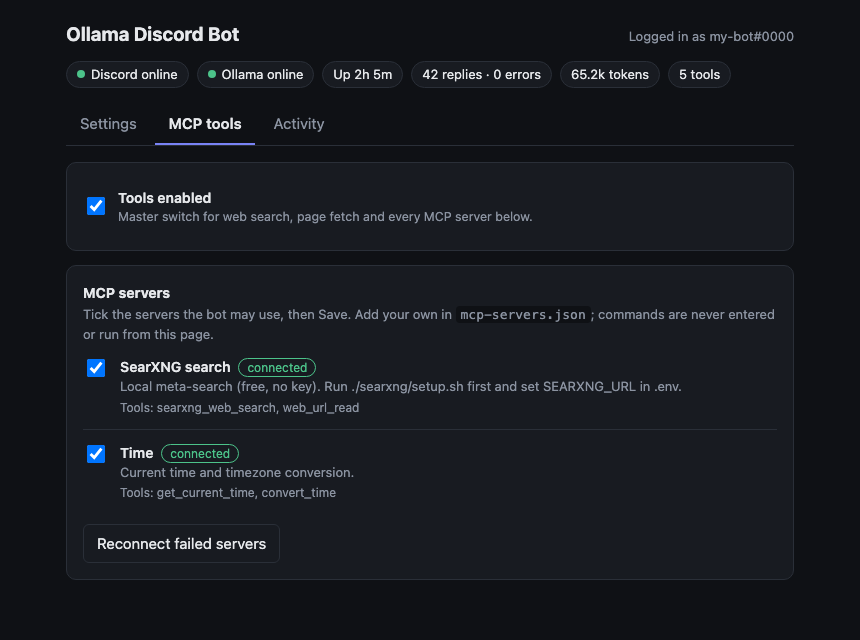
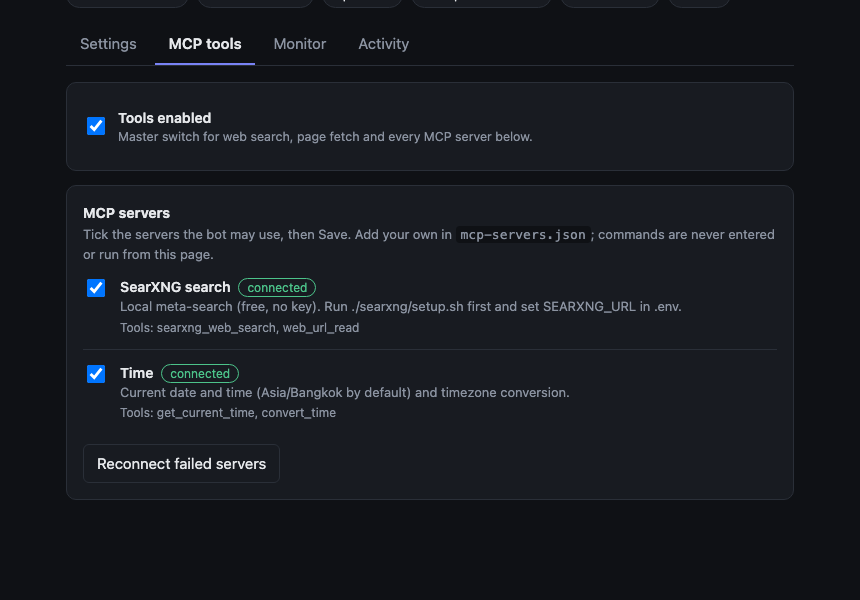
README: rewrite for the current bot, refresh screenshots
- features, requirements, usage with --commands, per-user conversations, today's date stamping
- choosing a model (tool support, thinking, measured speeds), MCP servers and the Time server
- dashboard tabs (Settings, MCP tools, Monitor, Activity) with new demo-data screenshots, logs, running, full env variable table, troubleshooting, project layout
- fix: default model and the pulled model now agree

diff --git a/README.md b/README.md
@@ -1,12 +1,25 @@
 # ollama-discord
 
-Discord bot that answers with a local Ollama model (`qwen2.5:7b`).
+A Discord bot that answers with a **local** Ollama model: no cloud API, no subscription, your messages stay on your machine. It can search the web and use other tools through MCP, and comes with a web dashboard to change its settings live and see how it is performing.
+
+- Per-user conversations, so two people talking to the bot in one channel never mix
+- Web search through a local SearXNG (free, no API key), plus any MCP server you add (date/time, ...)
+- Dashboard: change model, prompt and limits without restarting; choose MCP servers; monitor speed, memory and errors; browse logs
+- Chat commands: `--help`, `--info`, `--reset`
+- Two log files on disk (bot log and chat log) for investigating problems
+
+## Requirements
+- [Ollama](https://ollama.com) (a recent version; newer models need newer Ollama) and Node.js 20.6 or newer
+- A Discord bot token
+- Docker, only for the local web search (SearXNG)
+- Python 3, only for the optional Time MCP server
 
 ## Setup
-1. Install Ollama (https://ollama.com) and pull the model:
+1. Install Ollama and pull a model:
    ```
-   ollama pull qwen2.5:3b
+   ollama pull qwen2.5:7b
    ```
+   The default model is `qwen2.5:7b`. See [Choosing a model](#choosing-a-model) for others.
 2. Create a bot at https://discord.com/developers/applications, enable **Message Content Intent** (Bot tab), copy the token, and invite it with the `bot` scope and Send Messages / Read Message History permissions.
 3. Configure and run:
    ```
@@ -14,21 +27,44 @@ Discord bot that answers with a local Ollama model (`qwen2.5:7b`).
    cp .env.example .env   # set DISCORD_TOKEN
    npm start
    ```
+   or run it in the background with `./bot.sh start` (see [Running](#running-the-bot)).
+4. Optional: set up [web search](#web-search-and-other-tools-mcp) and open the [dashboard](#web-dashboard).
 
-## Usage
-- @mention the bot in a server channel, or DM it.
-- Commands (type after the @mention, or in a DM). Replies come in a code block, and `--help` always lists the current commands:
-  - `--help` lists all commands
-  - `--info` shows the model, tools, your conversation size, uptime and average reply time
-  - `--reset` clears your own conversation history
-- Each person gets their own conversation, even in a shared channel, so two people chatting at once don't mix. `--reset` clears your own history. To share one conversation per channel instead, set `HISTORY_SCOPE=channel` in `.env` or change "History kept" in the dashboard.
+## Using the bot
+@mention the bot in a server channel, or DM it. The bot answers in the same channel.
 
-Config via `.env`: `OLLAMA_HOST`, `OLLAMA_MODEL`, `SYSTEM_PROMPT`, `HISTORY_LIMIT`.
+**Commands.** Type them after the @mention (or in a DM). Replies come in a code block, commands are not case sensitive, and they work while the bot is paused. `--help` always lists the current commands.
 
-## Web search (MCP)
-The bot connects to an MCP search server and lets the model call it when it needs current info; it then reads the top result and answers with a short summary and a source link.
+| Command | What it does |
+| --- | --- |
+| `--help` | lists all commands |
+| `--info` | shows the model, tools, your conversation size, uptime and average reply time |
+| `--reset` | clears your own conversation history |
 
-**Recommended: local SearXNG (free, no API key, needs Docker)**
+An unknown `--something` gets a hint instead of being sent to the model.
+
+**Conversations.** Each person has their own conversation, even in a shared channel. To share one conversation per channel instead, set `HISTORY_SCOPE=channel` in `.env` or change "History kept" in the dashboard. The bot remembers the last `HISTORY_LIMIT` messages (default 10). Replies that used a tool start with `(search)`; you can turn that tag off in the dashboard.
+
+**Current date.** Models guess the year from their training data (a bot asked about "the next F1 race" will happily search for 2024 in 2026). So the bot puts today's date next to each question it sends to the model, for example `[Today is Monday, October 19, 2026] what the next f1 race`. It is added only to the copy sent to the model, never stored in the history. Turn it off with "Tell the model today's date" in the dashboard or `INJECT_DATE=false`.
+
+## Choosing a model
+Any Ollama model works. For web search and other tools the model must support **tool calling**: `qwen3`, `qwen3.5`, `qwen2.5` and `llama3.1` do. A model without it, such as `gemma3`, still chats, but the bot skips search and tools for it (the dashboard says so).
+
+**Thinking models** (`qwen3`, `qwen3.5`, `deepseek-r1`) reason before answering, which makes replies slow and token-hungry. The bot turns thinking off by default; the dashboard's **Thinking mode** checkbox (or `OLLAMA_THINKING=true`) turns it on.
+
+Speed on a MacBook with an M1 and 16 GB, measured with this bot (your hardware will differ):
+
+| Model | Reading prompts | Writing answers | Memory |
+| --- | --- | --- | --- |
+| `qwen3.5:9b` | ~75 tokens/s | ~7 tokens/s | 8 GB, grows to ~13 GB over a long run |
+| `qwen3.5:4b` | ~145 tokens/s | ~15 tokens/s | 4.7 GB |
+
+Reading the prompt is usually the slow part: every tool definition is sent with every request, so the more tools are enabled, the longer each reply takes. See [Troubleshooting](#troubleshooting).
+
+## Web search and other tools (MCP)
+The bot can call tools through [MCP](https://modelcontextprotocol.io) servers. For a search tool it lets the model search, reads the top result, and answers with a short summary and a source link. Every other tool of a selected server is offered to the model as it is.
+
+**Web search with local SearXNG (free, no API key, needs Docker)**
 ```
 ./searxng/setup.sh        # first-time setup; later ./bot.sh start/stop handles it (http://127.0.0.1:8888, local only)
 ```
@@ -36,51 +72,122 @@ Then put this in `.env` and run `./bot.sh restart`:
 ```
 SEARXNG_URL=http://127.0.0.1:8888
 ```
-`./bot.sh start` starts SearXNG automatically (opening Docker Desktop if needed) and `./bot.sh stop` stops it again, as long as `SEARXNG_URL` is set in `.env`. SearXNG combines several engines; if some are blocked at your IP it uses the others.
+`./bot.sh start` starts SearXNG automatically (opening Docker Desktop if needed) and `./bot.sh stop` stops it again, as long as `SEARXNG_URL` is set in `.env`. SearXNG combines several engines; if some are blocked at your IP it uses the others. Set `MCP_ENABLED=false` to disable search and all other tools.
 
-Set `MCP_ENABLED=false` to disable search and other tools.
-
-## Web dashboard
-Open http://127.0.0.1:8787 while the bot is running to change the model (from your installed Ollama models), system prompt, history length, context size, temperature, max tool rounds, which **MCP servers** the bot uses, tools on/off, advanced model options (top-p, max reply tokens, keep-alive), which channels the bot answers in, a per-user cooldown, the bot's Discord status text, pause the bot, clear history, and see recent activity, including which tools each reply used (name, what it was called with, how long it took, and whether it failed). Changes apply immediately and are saved to `config.json` (which overrides `.env`; delete it to go back to `.env` values).
-
-![Settings tab: model, system prompt, limits and controls](docs/screenshots/settings.png)
-
-| MCP tools | Activity and token usage |
-| --- | --- |
-| ![MCP tools tab: choose which MCP servers the bot uses](docs/screenshots/tools.png) | ![Activity tab: recent messages with tokens in and out](docs/screenshots/activity.png) |
-
-*Screenshots use demo data.*
-
-### Monitor tab
-Shows how the bot is performing: health warnings (swap nearly full, model partly on CPU, slow replies, prompts filling the context, repeated tool loops), averages (reply time, tokens/s for reading and writing, model calls per reply), a chart of where each reply's time went (model load, reading the prompt, writing the answer, tools), how much memory Ollama's model uses, and swap/CPU load on the Mac. Reply data is kept in memory for the last 50 replies and resets on restart.
-
-### Logs
-The bot keeps two logs on disk in `logs/` (git-ignored), so you can investigate problems after the fact:
-- `logs/bot.jsonl`: everything the bot prints (startup, tool calls, warnings, errors, crashes), one JSON object per line.
-- `logs/chat.jsonl`: each question and answer with user, timing, tokens, tools used and any error. Turn this off with "Save chat log to disk" in Settings if you don't want conversations stored.
-
-Each file rotates at 2 MB and keeps two older copies (`.1`, `.2`), so disk use stays small. The Monitor tab's **Logs** card shows both, with filters (all / warnings and errors / errors only), text search, click-to-expand rows and a Clear button, and the Health box warns when the bot log has errors from the last hour. The Discord token is scrubbed if it ever appears. `bot.log` (raw console output from `./bot.sh`) is still written as before.
-
-### Choosing the bot's MCP servers
-The "MCP servers" list shows every server the bot knows about with a live status (off / connecting / connected / error) and the tools each one provides. Tick the ones you want and press Save; servers are started or stopped right away, and **Reconnect failed servers** retries any that errored. Several servers can run at once. If two expose a tool with the same name, the later one is prefixed with its id (e.g. `fake__get_time`).
-
-The list comes from three places (later wins on the same id):
+**Choosing the servers.** The dashboard's MCP tools tab lists every server the bot knows with a live status (off / connecting / connected / error) and its tools. Tick the ones you want and press Save: servers start and stop right away, and **Reconnect failed servers** retries any that errored. If two servers expose a tool with the same name, the later one is prefixed with its id (e.g. `time__get_current_time`). The list comes from three places (later wins on the same id):
 1. built in: `searxng` (needs `SEARXNG_URL` in `.env`; the dashboard shows what is missing)
-2. `env` (optional, older way): one server described by `MCP_COMMAND` / `MCP_ARGS` / `MCP_ENV_KEYS` in `.env`. Only appears if `MCP_COMMAND` is set; don't set it for SearXNG, as that would duplicate the built-in `searxng` entry and double every search tool in the prompt. If set, it is selected by default, otherwise `searxng` is
+2. `env` (optional, older way): one server described by `MCP_COMMAND` / `MCP_ARGS` / `MCP_ENV_KEYS` in `.env`. Only appears if `MCP_COMMAND` is set. Don't set it for SearXNG: that would duplicate the built-in `searxng` entry and double every search tool in the prompt. If set, it is selected by default, otherwise `searxng` is
 3. your own `mcp-servers.json` (copy `mcp-servers.example.json`; re-read when the file changes, no restart needed):
    ```json
    { "servers": [ { "id": "time", "label": "Time", "description": "...", "command": ".venv/bin/mcp-server-time", "args": ["--local-timezone=Asia/Bangkok"], "envKeys": [] } ] }
    ```
    `envKeys` lists the `.env` variables forwarded to that server; nothing else from `.env` (such as the Discord token) is passed on.
 
-**Time server (current date, time and timezones).** The official `mcp-server-time` is a Python package, so it lives in its own virtual environment inside the project (git-ignored, along with your `mcp-servers.json`):
+**Time server (clock time and timezones).** The official `mcp-server-time` is a Python package, so it lives in its own virtual environment inside the project (git-ignored, along with your `mcp-servers.json`):
 ```
 python3 -m venv .venv && .venv/bin/pip install mcp-server-time
 cp mcp-servers.example.json mcp-servers.json   # adjust --local-timezone if you are not in Asia/Bangkok
 ```
-Then tick **Time** in the dashboard's MCP tools tab and Save. It provides `get_current_time` and `convert_time`, so date questions are answered instantly instead of by web search. Tell the bot to use it in the system prompt, for example: "For the current date or time, or timezone questions, use the time tool (default timezone Asia/Bangkok). Use web search only for other current events."
+Then tick **Time** in the MCP tools tab and Save. It provides `get_current_time` and `convert_time`, so questions like "what time is it in Tokyo?" are answered instantly instead of by web search. To make the bot use it, say so in the system prompt, for example: "For the current time or timezone questions, use the time tool (default timezone Asia/Bangkok). Use web search only for other current events."
 
-Search-style tools (name contains `web-search` / `web_search`) get the summarise-and-cite flow; every other tool is offered to the model as is.
+## Web dashboard
+Open http://127.0.0.1:8787 while the bot is running. Changes apply immediately and are saved to `config.json`, which overrides `.env` (delete it to go back to the `.env` values). A bar with **Save changes** and **Discard** appears when you have unsaved edits.
 
+### Settings
+<img src="docs/screenshots/settings.png" alt="Settings tab" width="640">
+
+- **Model:** which installed Ollama model answers, temperature, thinking mode, top-p, max reply tokens, and how long Ollama keeps the model in memory
+- **System prompt:** the instructions the bot follows, and the "Tell the model today's date" switch
+- **Access & behavior:** which channels the bot answers in (empty = all; DMs always work), a cooldown between a user's questions, the bot's Discord status text, whether to save the chat log, and whether to show the `(search)` tag
+- **Limits:** history scope and length, context size, how many tool rounds a reply may use
+- **Control:** pause the bot (it replies that it is paused), or clear all conversation history
+
+### MCP tools
+<img src="docs/screenshots/tools.png" alt="MCP tools tab" width="640">
+
+The master switch for tools and the server list described [above](#web-search-and-other-tools-mcp).
+
+### Monitor
+<img src="docs/screenshots/monitor.png" alt="Monitor tab" width="640">
+
+How the bot is performing, built from the last 50 replies (kept in memory, reset on restart):
+- **Health:** warnings for a nearly full swap, a model partly running on the CPU, slow replies, prompts filling the context window, repeated tool loops, and errors in the bot log in the last hour
+- **Reply performance:** average and slowest reply, tokens per second for reading and writing, prompt size, model calls per reply
+- **Where the time goes:** a bar per reply split into model load, reading the prompt, writing the answer and tools; hover a bar for the numbers
+- **Ollama and this Mac:** model memory, how much of it is on the GPU, context size, when it unloads, swap and CPU load
+- **Latest replies** and the **Logs** card ([below](#logs))
+
+### Activity
+<img src="docs/screenshots/activity.png" alt="Activity tab" width="640">
+
+Recent messages with tokens in and out (Ollama's own counts: *in* is prompt, history and tool results; *out* is generated text), how long each took, and **which tools each reply used**: name, what it was called with (the search query or URL), how long it took, and whether it failed. Tool calls made before an error are kept.
+
+*Screenshots use demo data.*
+
+### Dashboard security
 - Local only by default. To reach it from another machine set `WEB_HOST` and a `WEB_PASSWORD` (the dashboard refuses to start on a non-local address without one). Use HTTPS or a VPN in front of it, since Basic auth is not encrypted.
 - The Discord token, Ollama address and MCP commands stay on the server (`.env`, built-ins, `mcp-servers.json`). The dashboard can only pick servers by id, so a compromised dashboard can't make the bot run a new command. Only add servers to `mcp-servers.json` that you trust: they run as your user.
+
+## Logs
+The bot keeps two logs on disk in `logs/` (git-ignored), so you can investigate problems after the fact:
+- `logs/bot.jsonl`: everything the bot prints (startup, tool calls, warnings, errors, crashes), one JSON object per line
+- `logs/chat.jsonl`: each question and answer with user, timing, tokens, tools used and any error. **This stores people's messages on your machine.** Turn it off with "Save chat log to disk" in Settings if you don't want conversations stored
+
+Each file rotates at 2 MB and keeps two older copies (`.1`, `.2`), so disk use stays small. The Monitor tab's **Logs** card shows both, with filters (all / warnings and errors / errors only), text search, click-to-expand rows and a Clear button. The Discord token is scrubbed if it ever appears. `bot.log` (the raw console output written by `./bot.sh`) is still written as before.
+
+## Running the bot
+```
+./bot.sh start     # start the bot (and SearXNG if SEARXNG_URL is set)
+./bot.sh stop
+./bot.sh restart
+./bot.sh status
+./bot.sh logs      # follow bot.log
+```
+`npm start` runs it in the foreground; `npm run dev` restarts it when the code changes. `npm run loadtest [concurrency] [requests]` measures reply latency at different numbers of simultaneous questions.
+
+## Configuration
+Precedence: the dashboard (`config.json`) over `.env` over the defaults. Everything the dashboard can change is listed there; these `.env` variables set the starting values:
+
+| Variable | Default | Meaning |
+| --- | --- | --- |
+| `DISCORD_TOKEN` | | the bot token (`.env` only) |
+| `OLLAMA_HOST` | `http://127.0.0.1:11434` | where Ollama runs (`.env` only) |
+| `OLLAMA_MODEL` | `qwen2.5:7b` | the model |
+| `SYSTEM_PROMPT` | built-in prompt | instructions for the model |
+| `HISTORY_LIMIT` | `10` | messages remembered per conversation |
+| `HISTORY_SCOPE` | `user` | `user` (private) or `channel` (shared) |
+| `OLLAMA_NUM_CTX` | `8192` | context window in tokens (larger = more memory) |
+| `OLLAMA_TEMPERATURE` | `0.8` | 0 precise, 2 creative |
+| `OLLAMA_TOP_P` | `0.9` | lower = safer wording |
+| `OLLAMA_NUM_PREDICT` | `0` | max generated tokens per model call, 0 = no limit |
+| `OLLAMA_KEEP_ALIVE` | `5m` | how long Ollama keeps the model loaded (`-1` = forever) |
+| `OLLAMA_THINKING` | `false` | let thinking models reason first |
+| `MAX_TOOL_ROUNDS` | `4` | tool calls a reply may use before it must answer |
+| `INJECT_DATE` | `true` | put today's date next to each question |
+| `MCP_ENABLED` | `true` | `false` turns search and all tools off |
+| `SEARXNG_URL` | | SearXNG address; also makes `./bot.sh` manage the container |
+| `WEB_PORT` / `WEB_HOST` / `WEB_PASSWORD` | `8787` / `127.0.0.1` / | the dashboard (a password is required for non-local hosts) |
+
+Dashboard-only settings: allowed channels, cooldown, Discord status text, chat log on/off, `(search)` tag, pause, and which MCP servers are on.
+
+## Troubleshooting
+- **Replies are slow.** Open the Monitor tab. Long "reading prompt" bars mean the prompt is too big: untick duplicate MCP servers (every tool definition is sent with every request), pick a smaller model, lower "Tool rounds", or keep the context size modest. A nearly full swap means the Mac is short on memory: close other apps or use a smaller model.
+- **The bot searches the wrong year.** Make sure "Tell the model today's date" is on.
+- **`does not support tools` from Ollama.** The model has no tool calling. The bot detects this and skips tools for it; choose another model if you want search.
+- **The bot does not answer.** Check that Message Content Intent is enabled, the bot is not paused, the channel is allowed (Settings → Allowed channels), and you are not within the cooldown. `./bot.sh status` and the bot log in the Monitor tab show errors.
+- **Search fails.** `./bot.sh status` should show `searxng: up`. Docker must be running; `./bot.sh restart` starts it.
+- **Investigating an error.** Monitor tab → Logs → Bot log → "Errors only"; the Chat log shows the question, the tools it used and the error.
+
+## Project layout
+| Path | What it is |
+| --- | --- |
+| `src/index.js` | the Discord client, commands and message handling |
+| `src/ollama.js` | talks to Ollama, runs the tool loop, records timing and tokens |
+| `src/mcp.js` | starts and manages MCP servers |
+| `src/fetch.js` | the `fetch_url` tool (blocks private addresses) |
+| `src/config.js` | settings: validation, defaults, saving to `config.json` |
+| `src/web.js`, `src/dashboard.html` | the dashboard server and page |
+| `src/logger.js`, `src/system.js` | the log files, and host stats for the Monitor tab |
+| `searxng/` | Docker setup for the local search engine |
+| `scripts/loadtest.js` | latency test |
+| `docs/screenshots/` | the dashboard images above (demo data) |
